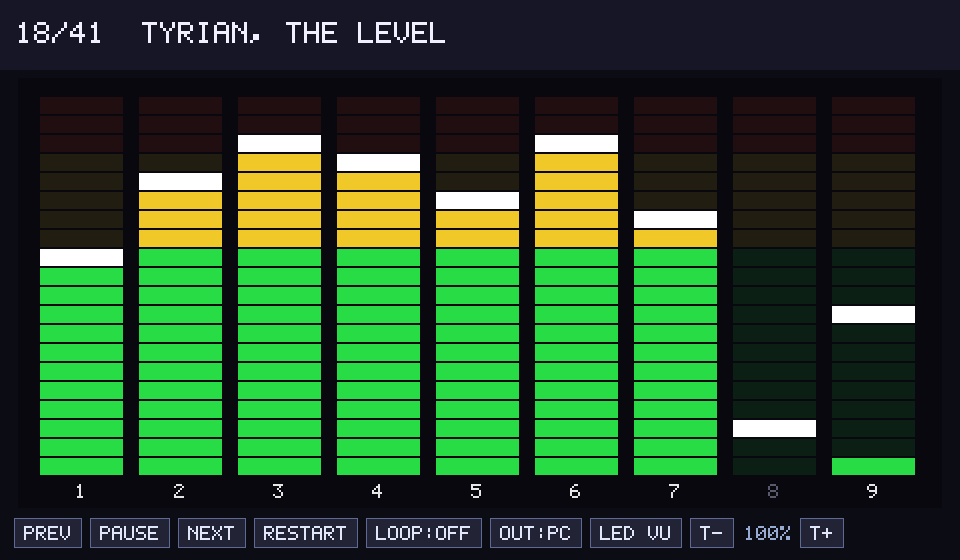
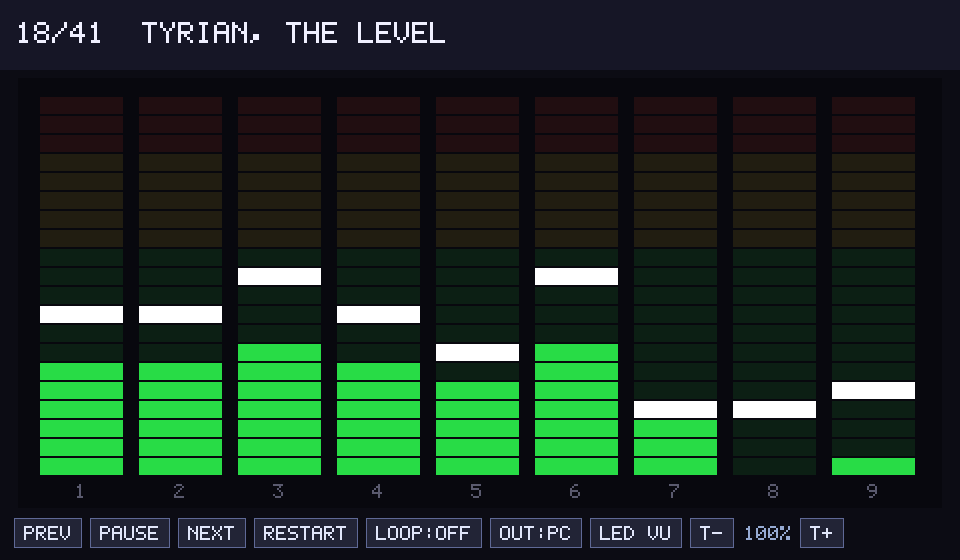
GUI: drive bars from real per-channel output level (fixes stuck/"all up" bars)
The envelope generator saturates at sustain, so the previous env-based bars
read full (env=1.0) for any held note -- making sustained sections look "all
up" and static even before/with little audible sound.

Replace it with the channel's real output: track peak |cval| per operator in
opl.c (new vu field + opl_channel_level() probe) and use the carrier's peak,
normalized with a perceptual curve. Now bars reflect actual loudness, move with
the music, and a keyed-but-silent channel reads ~0.

Also: handle SIGINT/SIGTERM (clean board reset + exit; no headless hang).
Refreshed docs screenshots.

Claude-Session: https://claude.ai/code/session_017QpGUpiZNHxga1jaZw9sKq

Changed region(s): [[0.0312, 0.2429, 0.9688, 0.7893], [0.8438, 0.5464, 0.9688, 0.5768]]

diff --git a/src/rwgui.c b/src/rwgui.c
@@ -15,6 +15,7 @@
 #include <SDL.h>
 
 #include <math.h>
+#include <signal.h>
 #include <stdbool.h>
 #include <stdio.h>
 #include <stdlib.h>
@@ -217,23 +218,19 @@ static void viz_update(void)
 {
 	for (int ch = 0; ch < NCH; ++ch)
 	{
-		int base = op_table[ch];
-		int carrier_tl = fmchip[0x43 + base] & 0x3f;
-		float loud = (0x3f - carrier_tl) / 63.0f;          // note loudness from TL
-
-		// Real carrier envelope from the emulator: rises on attack, settles to
-		// sustain, falls on release -- so bars actually move with the sound.
-		float env = (float)opl_carrier_env(ch);
-		float amp = env * loud;
-		if (amp > 1) amp = 1;
+		// Real per-channel output level (peak |cval| since last frame): tracks
+		// loudness, envelope and silence, so bars move with the actual sound
+		// and a keyed-but-inaudible channel reads ~0.
+		float amp = (float)opl_channel_level(ch);
+		amp = powf(amp, 0.6f);   // perceptual curve: use the meter's full range
 
 		int fnum = fmchip[0xA0 + ch] | ((fmchip[0xB0 + ch] & 3) << 8);
 		int block = (fmchip[0xB0 + ch] >> 2) & 7;
 		float pitch = (block * 1024 + fnum) / (8.0f * 1024.0f);   // 0..1
 
 		VizChan *v = &viz[ch];
-		v->on = amp > 0.01f;
-		v->level += (amp - v->level) * (amp > v->level ? 0.6f : 0.25f);   // snappy
+		v->on = amp > 0.02f;
+		v->level += (amp - v->level) * (amp > v->level ? 0.6f : 0.20f);   // snappy
 		if (v->level < 0) v->level = 0;
 		if (v->level > v->peak) v->peak = v->level;
 		else v->peak -= 0.012f;
@@ -461,6 +458,9 @@ static void draw_controls(SDL_Renderer *ren, int W, int H)
 	add_button(ren, bx, by, bh, "T+", ACT_TUP, mx, my);
 }
 
+static volatile sig_atomic_t g_quit = 0;
+static void on_signal(int s) { (void)s; g_quit = 1; }
+
 static void handle_click(int x, int y)
 {
 	for (int i = 0; i < g_nbtn; ++i)
@@ -511,6 +511,10 @@ int main(int argc, char *argv[])
 	if (strcmp(dev, "-") != 0 && retrowave_open(dev)) { out_board = true; out_pc = false; }
 	else { out_board = false; out_pc = true; }
 
+	SDL_SetHint(SDL_HINT_NO_SIGNAL_HANDLERS, "1");
+	signal(SIGINT, on_signal);
+	signal(SIGTERM, on_signal);
+
 	if (SDL_Init(SDL_INIT_VIDEO | SDL_INIT_AUDIO) != 0)
 	{
 		fprintf(stderr, "SDL_Init: %s\n", SDL_GetError());
@@ -540,7 +544,7 @@ int main(int argc, char *argv[])
 
 	bool running = true;
 	long frame = 0;
-	while (running)
+	while (running && !g_quit)
 	{
 		SDL_Event e;
 		while (SDL_PollEvent(&e))

diff --git a/src/emu/opl.c b/src/emu/opl.c
@@ -116,6 +116,7 @@
  */
 typedef struct operator_struct {
 	Bit32s cval, lastcval;			// current output/last output (used for feedback)
+	Bit32s vu;						// tyrian-retrowave: peak |cval| since last probe read (visualizer)
 	Bit32u tcount, wfpos, tinc;		// time (position in waveform) and time increment
 	fltype amp, step_amp;			// and amplification (envelope)
 	fltype vol;						// volume
@@ -357,6 +358,10 @@ void operator_output(op_type* op_pt, Bit32s modulator, Bit32s trem) {
 		// vol  : 1/2^14 to 1/2^29 (/0x4000; /1../0x8000)
 
 		op_pt->cval = (Bit32s)(op_pt->step_amp*op_pt->vol*op_pt->cur_wform[i&op_pt->cur_wmask]*trem/16.0);
+
+		// tyrian-retrowave: track peak magnitude for the visualizer
+		{ Bit32s a = op_pt->cval < 0 ? -op_pt->cval : op_pt->cval;
+		  if (a > op_pt->vu) op_pt->vu = a; }
 	}
 }
 
@@ -1620,11 +1625,16 @@ void adlib_getsample(Bit16s* sndptr, Bits numsamples) {
 }
 
 /* --- tyrian-retrowave addition (not part of the original DOSBox code) -------
- * Per-channel carrier envelope probe for the GUI visualizer.  Returns the
- * carrier operator's smoothed envelope amplitude (~0..1) for 2-op channel
- * `ch` (0..8), reflecting the live attack/decay/sustain/release state.       */
-double opl_carrier_env(int ch)
+ * Per-channel output-level probe for the GUI visualizer.  Returns the peak
+ * magnitude of the carrier operator's actual output (|cval|) since the last
+ * call, normalized to ~0..1, for 2-op channel `ch` (0..8).  Because it is the
+ * real oscillating output it tracks loudness, envelope and silence faithfully
+ * (a keyed-but-inaudible channel reads ~0).  Reading resets the peak window.  */
+double opl_channel_level(int ch)
 {
 	if (ch < 0 || 9 + ch >= (int)MAXOPERATORS) return 0.0;
-	return (double)op[9 + ch].step_amp;
+	Bit32s v = op[9 + ch].vu;
+	op[9 + ch].vu = 0;
+	double lv = v / 4096.0;          // ~4096 = loudest note's peak |cval|
+	return lv > 1.0 ? 1.0 : lv;
 }

diff --git a/src/emu/opl.h b/src/emu/opl.h
@@ -37,8 +37,8 @@ void adlib_write_index(Bitu port, Bit8u val);
 // Set by the GUI before opl_init() is first reached (used by opl_init macro).
 extern int audioSampleRate;
 
-// Per-channel carrier envelope (~0..1) for the visualizer (added to opl.c).
-double opl_carrier_env(int ch);
+// Per-channel output level (~0..1, peak since last call) for the visualizer.
+double opl_channel_level(int ch);
 
 // GUI fan-out hooks, defined in rwgui.c.
 void rwgui_opl_init(void);

diff --git a/README.md b/README.md
@@ -42,9 +42,10 @@ carrier level). Three switchable styles:
 |---|---|---|
 | ![](docs/visualizer-led.png) | ![](docs/visualizer-neon.png) | ![](docs/visualizer-spectrum.png) |
 
-The bars track each channel's **real output envelope** read from the emulator,
-so they rise and fall with the actual sound (attack/decay/release), not just
-note on/off. Output is selectable at runtime: **PC**, **Board**, or **Both**;
+The bars track each channel's **real output level** read from the emulator
+(peak of the carrier's actual output), so they rise and fall with the actual
+sound, not just note on/off — a silent channel reads near zero even if a note
+is technically held. Output is selectable at runtime: **PC**, **Board**, or **Both**;
 if the board isn't connected it falls back to PC audio, so the app works on any
 machine.
 
@@ -90,8 +91,8 @@ redistributable and is not included here.
   the sample counter (as the original game does), fans the register stream out
   to the emulator (PC), the board, and the visualizer, and renders the bars.
 - `src/emu/opl.c` — DOSBox software OPL2/OPL3 emulator (GUI/PC audio only), with
-  a small appended `opl_carrier_env()` probe that exposes each channel's carrier
-  envelope for the visualizer.
+  a small appended `opl_channel_level()` probe (and a per-operator peak field)
+  that exposes each channel's real output level for the visualizer.
 - `src/compat/` — tiny stand-ins for the OpenTyrian headers `lds_play.c`
   includes, so the CLI needs no SDL.
 